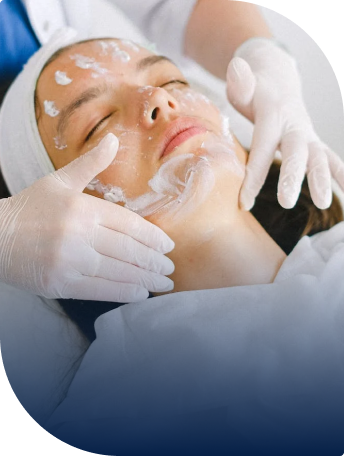
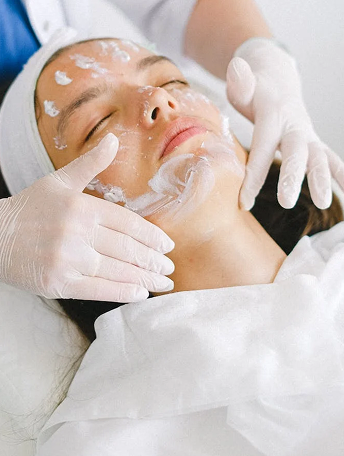
update image and bg styles

diff --git a/css/main.min.css b/css/main.min.css
@@ -1,1 +1,1 @@
-html{-webkit-box-sizing:border-box;box-sizing:border-box;height:100%}*,*::after,*::before{-webkit-box-sizing:inherit;box-sizing:inherit;margin:0;padding:0}body{background-color:#fff;color:#011c44;font-family:"Roboto",sans-serif;letter-spacing:0;font-size:18px;display:-webkit-box;display:-ms-flexbox;display:flex;-webkit-box-orient:vertical;-webkit-box-direction:normal;-ms-flex-direction:column;flex-direction:column;height:100%}header{-webkit-box-flex:0;-ms-flex-positive:0;flex-grow:0;-ms-flex-negative:0;flex-shrink:0;-ms-flex-preferred-size:auto;flex-basis:auto}main{-webkit-box-flex:1;-ms-flex-positive:1;flex-grow:1;-ms-flex-negative:0;flex-shrink:0;-ms-flex-preferred-size:auto;flex-basis:auto}footer{-webkit-box-flex:0;-ms-flex-positive:0;flex-grow:0;-ms-flex-negative:0;flex-shrink:0;-ms-flex-preferred-size:auto;flex-basis:auto}h1{font-size:140px;line-height:1.22;text-transform:capitalize;color:#2b7fff;font-family:"Play",sans-serif;font-weight:700;font-style:normal}a{text-decoration:none;color:#011c44}a:hover{color:#2b7fff}a.primary{color:#2b7fff;font-weight:700}img{display:block;max-width:100%;height:auto}ul{list-style:none}address{font-style:normal}.visually-hidden{position:absolute;width:1px;height:1px;margin:-1px;border:0;padding:0;clip:rect(0 0 0 0);overflow:hidden}.container{padding-left:100px;padding-right:100px;margin:0 auto}@media screen and (min-width: 480px){.container{width:480px}}@media screen and (min-width: 768px){.container{width:768px}}@media screen and (min-width: 1200px){.container{width:1200px}}.section-title{width:100%;font-weight:700;font-size:64px;line-height:1;text-align:center;margin-bottom:48px}.section-title::first-letter{text-transform:uppercase}.section-title span{color:#2b7fff}.button:hover,.button:focus{background-color:#2b7fff;color:#fff}main .hero .hero__text{font-size:12px;line-height:1.5;color:#4a4a4a}main .features .features-text{font-size:22px;line-height:1.7;padding-bottom:40px}main .features .features-text span{text-transform:capitalize;font-weight:600}main .our-procedures .slider-content-text{font-size:22px;line-height:1.18}main .find-us .container{display:-webkit-box;display:-ms-flexbox;display:flex;-ms-flex-wrap:wrap;flex-wrap:wrap;-webkit-box-pack:justify;-ms-flex-pack:justify;justify-content:space-between}main .find-us .container .map-container{margin-right:30px;width:50%}main .find-us .container .form-container{width:50%}main .find-us .form-container{background:url(./../images/form_bg.png);background-repeat:no-repeat;padding:48px 56px}main .find-us .form-container h3{font-size:22px;font-weight:600;color:#fff}main .find-us .form-container h3 span{color:#2b7fff}main .find-us .form-container input{width:310px;height:52px}main .find-us .form-container label{display:none}main .find-us .copyrights{color:#747272;font-size:12px;line-height:1.5}footer{background-image:url(./../images/footer.png);background-size:cover;background-repeat:no-repeat;background-position-y:bottom}footer a{color:#fff}footer a:hover{color:#2b7fff}footer a.primary{color:#2b7fff;font-weight:700}footer .contacts .socials{background:#fff}footer .copy :first-child{color:#fff;font-size:16px;line-height:1}footer .copy :last-child{font-size:13px;line-height:1;color:#747272}/*# sourceMappingURL=main.min.css.map */
+html{-webkit-box-sizing:border-box;box-sizing:border-box;height:100%}*,*::after,*::before{-webkit-box-sizing:inherit;box-sizing:inherit;margin:0;padding:0}body{background-color:#fff;color:#011c44;font-family:"Roboto",sans-serif;letter-spacing:0;font-size:18px;display:-webkit-box;display:-ms-flexbox;display:flex;-webkit-box-orient:vertical;-webkit-box-direction:normal;-ms-flex-direction:column;flex-direction:column;height:100%}header{-webkit-box-flex:0;-ms-flex-positive:0;flex-grow:0;-ms-flex-negative:0;flex-shrink:0;-ms-flex-preferred-size:auto;flex-basis:auto}main{-webkit-box-flex:1;-ms-flex-positive:1;flex-grow:1;-ms-flex-negative:0;flex-shrink:0;-ms-flex-preferred-size:auto;flex-basis:auto}footer{-webkit-box-flex:0;-ms-flex-positive:0;flex-grow:0;-ms-flex-negative:0;flex-shrink:0;-ms-flex-preferred-size:auto;flex-basis:auto}h1{font-size:140px;line-height:1.22;text-transform:capitalize;color:#2b7fff;font-family:"Play",sans-serif;font-weight:700;font-style:normal}a{text-decoration:none;color:#011c44}a:hover{color:#2b7fff}a.primary{color:#2b7fff;font-weight:700}img{display:block;max-width:100%;height:auto}ul{list-style:none}address{font-style:normal}.visually-hidden{position:absolute;width:1px;height:1px;margin:-1px;border:0;padding:0;clip:rect(0 0 0 0);overflow:hidden}.container{padding-left:100px;padding-right:100px;margin:0 auto}@media screen and (min-width: 480px){.container{width:480px}}@media screen and (min-width: 768px){.container{width:768px}}@media screen and (min-width: 1200px){.container{width:1200px}}.section-title{width:100%;font-weight:700;font-size:64px;line-height:1;text-align:center;margin-bottom:48px}.section-title::first-letter{text-transform:uppercase}.section-title span{color:#2b7fff}.button:hover,.button:focus{background-color:#2b7fff;color:#fff}main .hero .hero__text{font-size:12px;line-height:1.5;color:#4a4a4a}main .features .features-text{font-size:22px;line-height:1.7;padding-bottom:40px}main .features .features-text span{text-transform:capitalize;font-weight:600}main .our-procedures .slider-content-text{font-size:22px;line-height:1.18}main .find-us .container{display:-webkit-box;display:-ms-flexbox;display:flex;-ms-flex-wrap:wrap;flex-wrap:wrap;-webkit-box-pack:justify;-ms-flex-pack:justify;justify-content:space-between}main .find-us .container .map-container{margin-right:30px;width:50%}main .find-us .container .form-container{width:50%}main .find-us .form-container{background:url(./../images/form_bg.png);background-repeat:no-repeat;background-color:#011c44;padding:48px 56px}main .find-us .form-container h3{font-size:22px;font-weight:600;color:#fff}main .find-us .form-container h3 span{color:#2b7fff}main .find-us .form-container input{width:310px;height:52px}main .find-us .form-container label{display:none}main .find-us .copyrights{color:#747272;font-size:12px;line-height:1.5}footer{background:url(./../images/pexels-photo-8101532-PhotoRoom1.png) no-repeat bottom right,url(./../images/footer.png);background-color:#011c44}footer a{color:#fff}footer a:hover{color:#2b7fff}footer a.primary{color:#2b7fff;font-weight:700}footer .contacts .socials{background:#fff}footer .copy :first-child{color:#fff;font-size:16px;line-height:1}footer .copy :last-child{font-size:13px;line-height:1;color:#747272}/*# sourceMappingURL=main.min.css.map */

diff --git a/css/main.css b/css/main.css
@@ -192,6 +192,7 @@ main .find-us .container .form-container {
 main .find-us .form-container {
   background: url(./../images/form_bg.png);
   background-repeat: no-repeat;
+  background-color: #011c44;
   padding: 48px 56px;
 }
 main .find-us .form-container h3 {
@@ -216,10 +217,8 @@ main .find-us .copyrights {
 }
 
 footer {
-  background-image: url(./../images/footer.png);
-  background-size: cover;
-  background-repeat: no-repeat;
-  background-position-y: bottom;
+  background: url(./../images/pexels-photo-8101532-PhotoRoom1.png) no-repeat bottom right, url(./../images/footer.png);
+  background-color: #011c44;
 }
 footer a {
   color: #ffffff;

diff --git a/sass/components/_footer.scss b/sass/components/_footer.scss
@@ -1,8 +1,6 @@
 footer {
-  background-image: url(./../images/footer.png);
-  background-size: cover;
-  background-repeat: no-repeat;
-  background-position-y: bottom;
+  background: url(./../images/pexels-photo-8101532-PhotoRoom1.png) no-repeat bottom right, url(./../images/footer.png);
+  background-color: #011c44;
   a {
     color: $white-color;
     &:hover {

diff --git a/index.html b/index.html
@@ -80,7 +80,8 @@
             </p>
           </div>
           <div class="features_image">
-            <img src="./images/features.png" alt="some txt" />
+            <img src="./images/features1.png" alt="some txt" />
+            <img src="./images/features2.png" alt="some txt" />
           </div>
         </div>
       </section>

diff --git a/sass/components/_mainSection.scss b/sass/components/_mainSection.scss
@@ -41,6 +41,7 @@ main {
     .form-container {
       background: url(./../images/form_bg.png);
       background-repeat: no-repeat;
+      background-color: #011c44;
       padding: 48px 56px;
       h3 {
         font-size: 22px;
